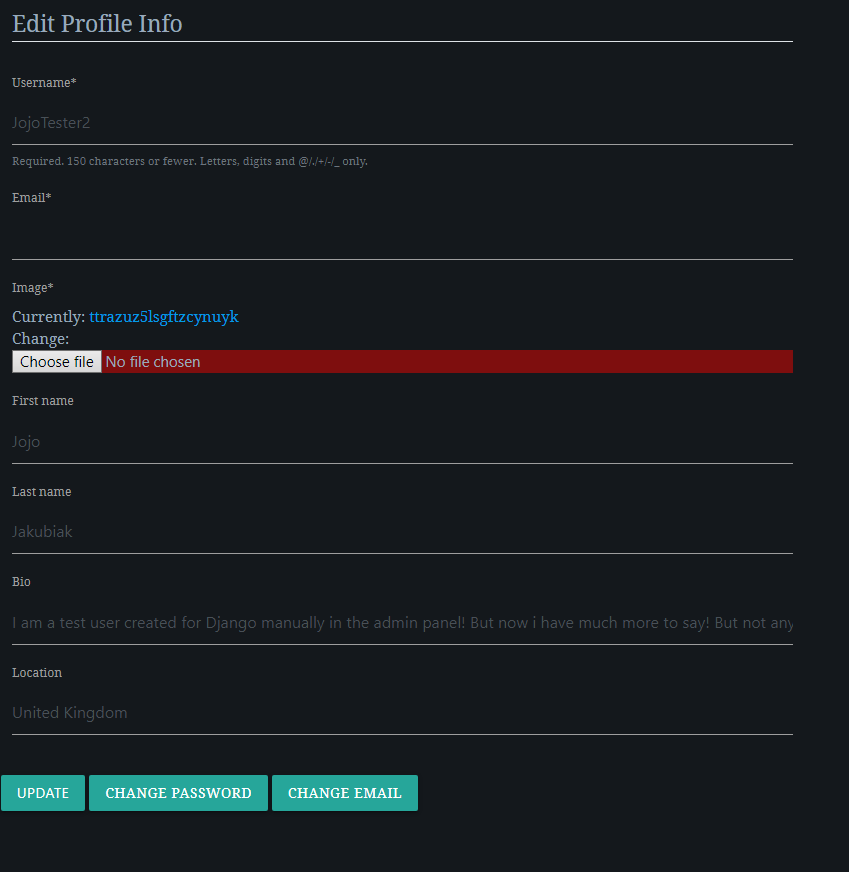
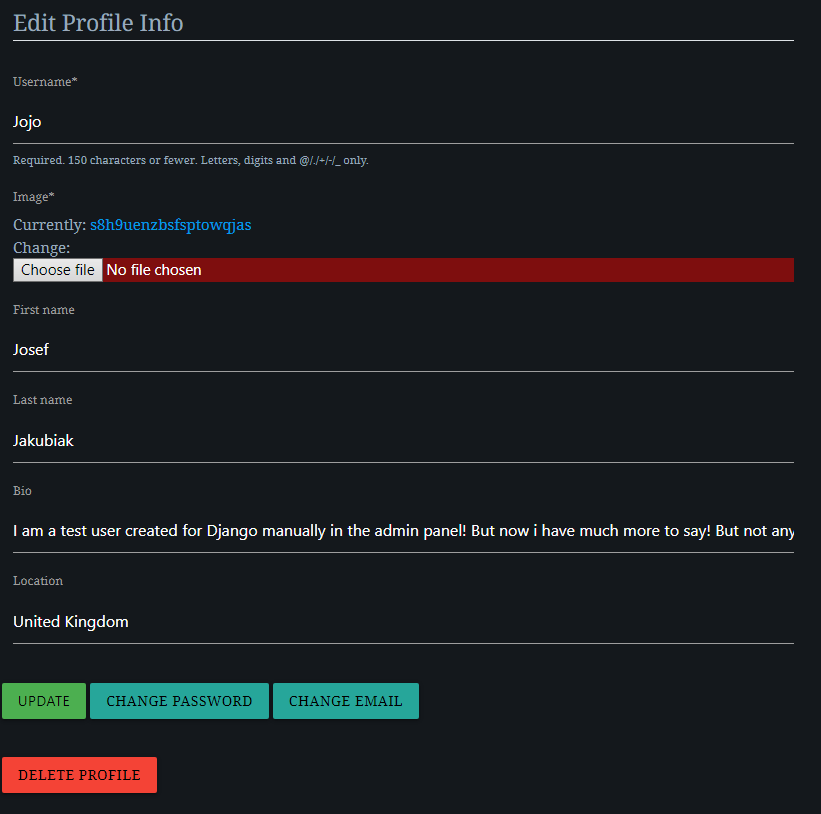
Detail rest of site features and user stories

diff --git a/README.md b/README.md
@@ -125,13 +125,13 @@ Nav Bar: The nav bar has a simple design that makes it easy for the user to find
 
 On mobile the nav bar will squish down into a "burger bun" icon which when pressed will present the user with the nav bar options
 
-![Screenshot of home page](assets/screenshots/navbar-mobile-screenshot.PNG "Home")
+![Screenshot of mobile nav bar](assets/screenshots/navbar-mobile-screenshot.PNG "Nav Bar Mobile")
 
 Game Search:
 
 The game search is the main function of the site, the user is given a clear window as to where the search bar is and how to go through with the search. Whatever the user types will be saved as a query to render the search results page with.
 
-![Screenshot of home page](assets/screenshots/search-screenshot.PNG "Home")
+![Screenshot of search page](assets/screenshots/search-screenshot.PNG "Search")
 
 USER STORY: Search Games:
 
@@ -148,7 +148,7 @@ Game Cards:
 
 The game card page will render the search query that the user has provided. For each search result a new card will be rendered. To prevent putting too many on one page a limit of 12 per page has been set to ensure the user does not also get overwhelemd with choice. To ensure more accurate searches an API setting has been made to order the games by metacritic rating. This means it is less likley to put user made or fan games high on the list when making a general query.
 
-![Screenshot of home page](assets/screenshots/search-results-screenshot.PNG "Home")
+![Screenshot of search results](assets/screenshots/search-results-screenshot.PNG "Search Results")
 
 USER STORY: Search Games:
 
@@ -165,7 +165,7 @@ Game Page:
 
 The game page takes the ID of the game and matches it to the API to render information about it clearly to the user. It has an image card to match the game art to the descripttion. This is more likley to give the user confirmation that they have found the correct game. Similarly the information on the side of the image is also detailed with the game description, release date, platforms, genres and developers. This gives the user all the quick information they could want to find on a game.
 
-![Screenshot of home page](assets/screenshots/game-details-screenshot.PNG "Home")
+![Screenshot of game page](assets/screenshots/game-details-screenshot.PNG "Game")
 
 USER STORY: View Game
 
@@ -177,6 +177,16 @@ Allow users to click on a featured game or search for a specific one
 Display all information on the game using the IGDB API.
 
 The Game Page fufils all this User Story by first having the styled game page displaying all the game information in a user friendly experience. Clicking on a featured game has become part of the Browse Games user story and will be moved to a future update. However the user is able to search for a specific game and have the information rendered by passing a further query to the API from the search results page. The IGDB API was also changed for thhe RAWG.io API, this works the same however and still displays all the intended information for the User.
+
+USER STORY: Add games to profile
+
+    - As a user, I want to add games to my profile, so that I can track games that I have played or want to play.
+
+Acceptance Criteria: 
+Style game details and profile. 
+Create a function to add a game to the user's profile database and render on profile page
+
+The game page also features two buttons both with functionality to add a certain game to the users profile lists. This is done on the backend in the database but is also rendered in a list on the user profile page. The buttons will also change colour and text depending on the games existence in any of the two lists.
 
 Reviews: 
 
@@ -193,13 +203,46 @@ Create and style a review form
 Save the review to the database with a connection to the game ID that matches it.
 Display review data on game page
 
-All this criteria is met, a review form is collected and stored into the database which is then rendered onto the game details page for the gameID that matches the gameID from the review. These two together ensure the correct review is on the matching game. This ensures that users can easily share their opinions and be able to find them in an easy to understand manor.
+USER STORY: Score Game
+
+    - As a User, I want to score a game so that I can compliment my review with a score, or avoid having to write a full review on a game.
+
+Acceptance Criteria: 
+Create a score form that users can interact with.
+Save score data to database with the game ID to match.
+Display score data on a game page from the user that submitted it
+
+All this criteria is met, a review form is collected and stored into the database which is then rendered onto the game details page for the gameID that matches the gameID from the review. These two together ensure the correct review is on the matching game. This ensures that users can easily share their opinions and be able to find them in an easy to understand manor. A score and a text form input is saved seperatley meaning they can exist on their own or with each other. This means that a user can just make a score on a game without needing to make a full review.
+
+User Accounts:
+
+A new user is able to create a user account with ease thanks to the Allauth package installed on the website. This handles everything from Registering to email forms and password resets. This allows the user to easily manage all their own account details through easy to understand and fully functional existing forms.
+
+![Screenshot of user sign up](assets/screenshots/user-screenshot.PNG "Sign up form")
+
+USER STORY: Create Account
+
+    - As a user, I want to create an account, so that I can log in to the site using a username and password.
+
+Acceptance Criteria:
+Allauth set up with working links
+Related sign up pages styled and accessible to user
 
 Profile Page:
 
 Whenever a user account is created a Profile page is also generated for the user. From here the user can display their profile picture in a similar design to the game details to have uniform design. Similarly there is a section next to the image that a user can fill in with personal details to personalize their profile page. If the user is signed in and viewing their own page they will be able to see the Edit Profile button.
 
 ![Screenshot of home page](assets/screenshots/profile-screenshot.PNG "Home")
+
+USER STORY: Create Profile
+
+    - As a User, I want to be able to create a profile, so that I can share information about my self and present it on a profile page
+
+Acceptance Criteria
+Create and style profile page
+Store user data in database
+
+The signal used to create a profile on creation of user allows every user to have their own profile page which will relate to the database and display information in an accesible manor.
 
 Edit Profile:
 
@@ -216,6 +259,24 @@ Create and style edit profile page
 Create a function to update database with new user information
 
 Edit profile is a simple user need and is met just as easily. A form is collected and passed through the view to update the database and user profile page with the new information provded by the user
+
+Delete Profile:
+
+A simple function was created to allow users easy access to delete their user account/profile. This would then cascade and delete all content relating to the account. Inlcuding reviews and saved game lists.
+
+![Screenshot of delete profile page](assets/screenshots/delete-profile-screenshot.PNG "Delete Profile")
+
+USER STORY: Delete Profile
+
+    - As a user, I want to Delete my profile so that I can remove my information and profile data.
+
+Acceptance Criteria:
+Create and style Delete Confirmation page
+Create Delete functionality that is only viewable ONLY to the user who owns the profile
+Create a confirmation message to make sure the user does not delete it by accident
+
+This simple user need has been met with ease. As detailed in my testing, it can only be accessed by the authorized user and provides a user confirmation to make sure it is not done by accident.
+
 
 
 ## Future Features
